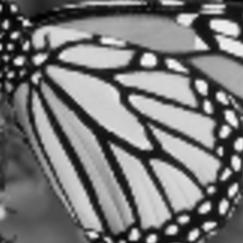
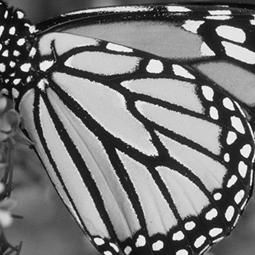
SRCNN output added

diff --git a/DL_CV/CW1/CW1_Handout_Template_code/tf-SRCNN/srcnn.py b/DL_CV/CW1/CW1_Handout_Template_code/tf-SRCNN/srcnn.py
@@ -1,6 +1,7 @@
 import time
 import os
 import matplotlib.pyplot as plt
+import warnings
 
 import numpy as np
 import tensorflow as tf
@@ -8,6 +9,7 @@ import scipy
 import pdb
 from skimage import measure
 import skimage
+warnings.filterwarnings('ignore')
 
 
 def imread(path, is_grayscale=True):
@@ -122,7 +124,11 @@ filter_w1 = model['w1'].shape[3]
 filter_w2 = model['w2'].shape[3]
 filter_w3 = model['w3'].shape[3]
 
-print(filter_w1,filter_w2,filter_w3)
+print("*"*25)
+print("filter_w1",filter_w1,"filter_w2",filter_w2,"filter_w3",filter_w3)
+
+print("*"*25)
+print("Plotting Weights")
 fig = plt.figure(figsize = (8,8))
 for i in range(filter_w1):
   sub_image = fig.add_subplot(8, 8, i+1)
@@ -141,8 +147,8 @@ fig.savefig('weight_w2_subplot.jpg')
 
 plt.imshow(weight_w3[:, :, 0, 0] ,interpolation = None, cmap = 'gray')
 plt.show()
-plt.savefig('weight_w3_subplot.jpg')
-
+#plt.savefig('weight_w3_subplot.jpg') # aprrantly this does not save the image
+scipy.misc.imsave('weight_3.jpg', weight_w3[:,:,0,0]) # saving image
 
 """Initialize the model variabiles (w1, w2, w3, b1, b2, b3) with the pre-trained model file
 """
@@ -170,16 +176,61 @@ output_ = sess.run(conv3, feed_dict={inputs: input_})
 
 ##------ Add your code here: save the blurred and SR images and compute the psnr
 # hints: use the 'scipy.misc.imsave()'  and ' skimage.meause.compare_psnr()'
+print("*"*25)
+print("Saving Super resolution image, blurred_image and ground_truth image ")
 scipy.misc.imsave('SR.jpg',output_[0,:,:,0])
-scipy.misc.imsave('ground_truth.jpg',output_[0,:,:,0])
+scipy.misc.imsave('ground_truth.jpg',groudtruth_image)
 scipy.misc.imsave('blurred.jpg',blurred_image)
+print("*"*25)
+print("groudtruth_image.shape",groudtruth_image.shape)
+print("blurred_image.shape",blurred_image.shape)
+print("SR_image.shape",output_.shape)
 
-groudtruth_image_cropped = groudtruth_image[6:-6,6:-6] 
-blurred_image_cropped = blurred_image[6:-6,6:-6]
-sr_float = output_[0,:,:,0].astype(np.float64)
-
+groudtruth_image_cropped = groudtruth_image[6:-6,6:-6] # cropping the image to size of SR image size
+blurred_image_cropped = blurred_image[6:-6,6:-6] # croping the image to size of SR image
+sr_float = output_[0,:,:,0].astype(np.float64)  # to numpy float 64 as ground truth and 
+print("*"*25)
+print("Calculating PSNR values on ground_truth vs blurred_image and ground_truth vs SR image")
 psnr_sr_br = skimage.measure.compare_psnr(groudtruth_image_cropped,blurred_image_cropped)
 psnr_sr_gt = skimage.measure.compare_psnr(groudtruth_image_cropped,sr_float)
+print("*"*25)
 
 print("blurred image PSNR", str(psnr_sr_br))
 print("SR image PSNR", str(psnr_sr_gt))
+
+
+"""
+Results
+*************************
+filter_w1 64 filter_w2 32 filter_w3 1
+*************************
+Plotting Weights
+2020-02-23 12:56:54.015994: I tensorflow/core/platform/cpu_feature_guard.cc:141] Your CPU supports instructions that this TensorFlow binary was not compiled to use: AVX2 FMA
+2020-02-23 12:56:54.062759: I tensorflow/stream_executor/cuda/cuda_gpu_executor.cc:998] successful NUMA node read from SysFS had negative value (-1), but there must be at least one NUMA node, so returning NUMA node zero
+2020-02-23 12:56:54.063220: I tensorflow/compiler/xla/service/service.cc:150] XLA service 0x141f4e0 executing computations on platform CUDA. Devices:
+2020-02-23 12:56:54.063238: I tensorflow/compiler/xla/service/service.cc:158]   StreamExecutor device (0): GeForce GT 740M, Compute Capability 3.5
+2020-02-23 12:56:54.082053: I tensorflow/core/platform/profile_utils/cpu_utils.cc:94] CPU Frequency: 2394450000 Hz
+2020-02-23 12:56:54.082631: I tensorflow/compiler/xla/service/service.cc:150] XLA service 0x1499540 executing computations on platform Host. Devices:
+2020-02-23 12:56:54.082662: I tensorflow/compiler/xla/service/service.cc:158]   StreamExecutor device (0): <undefined>, <undefined>
+2020-02-23 12:56:54.082823: I tensorflow/core/common_runtime/gpu/gpu_device.cc:1433] Found device 0 with properties: 
+name: GeForce GT 740M major: 3 minor: 5 memoryClockRate(GHz): 1.0325
+pciBusID: 0000:01:00.0
+totalMemory: 1.96GiB freeMemory: 1.74GiB
+2020-02-23 12:56:54.082847: I tensorflow/core/common_runtime/gpu/gpu_device.cc:1512] Adding visible gpu devices: 0
+2020-02-23 12:56:54.083578: I tensorflow/core/common_runtime/gpu/gpu_device.cc:984] Device interconnect StreamExecutor with strength 1 edge matrix:
+2020-02-23 12:56:54.083597: I tensorflow/core/common_runtime/gpu/gpu_device.cc:990]      0 
+2020-02-23 12:56:54.083606: I tensorflow/core/common_runtime/gpu/gpu_device.cc:1003] 0:   N 
+2020-02-23 12:56:54.083699: I tensorflow/core/common_runtime/gpu/gpu_device.cc:1115] Created TensorFlow device (/job:localhost/replica:0/task:0/device:GPU:0 with 1553 MB memory) -> physical GPU (device: 0, name: GeForce GT 740M, pci bus id: 0000:01:00.0, compute capability: 3.5)
+*************************
+Saving Super resolution image, blurred_image and ground_truth image 
+*************************
+groudtruth_image.shape (255, 255)
+blurred_image.shape (255, 255)
+SR_image.shape (1, 243, 243, 1)
+*************************
+Calculating PSNR values on ground_truth vs blurred_image and ground_truth vs SR image
+*************************
+blurred image PSNR 20.453967418499577
+SR image PSNR 21.77124773032378
+
+"""
